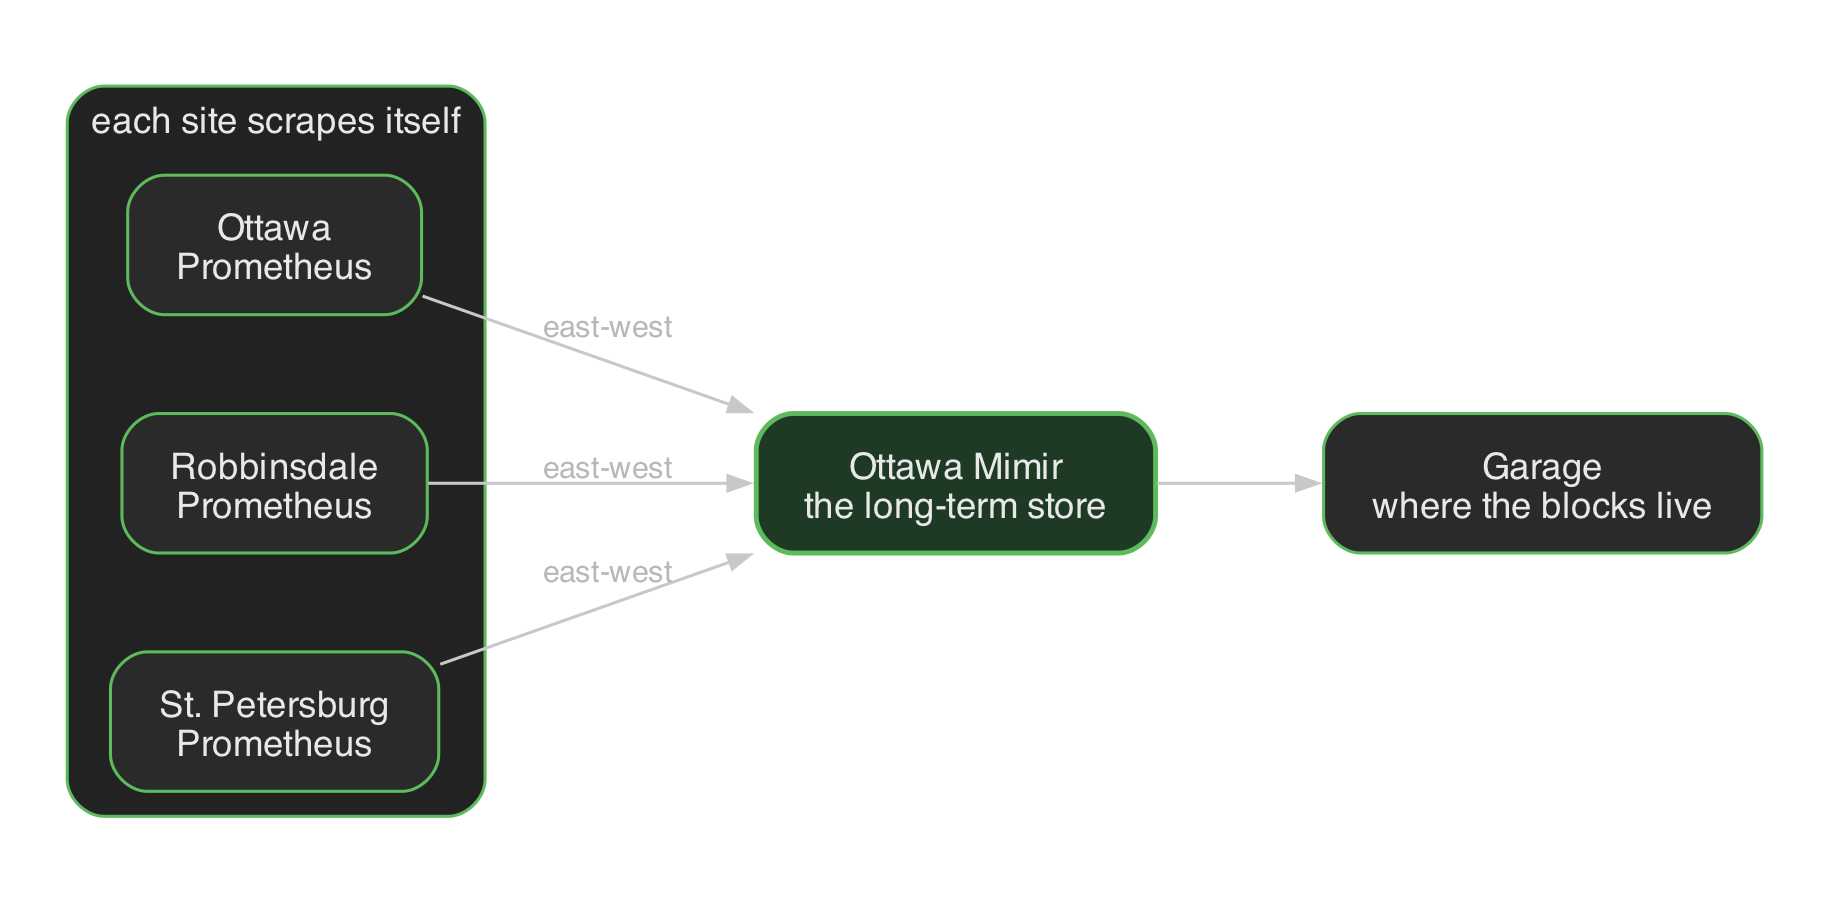
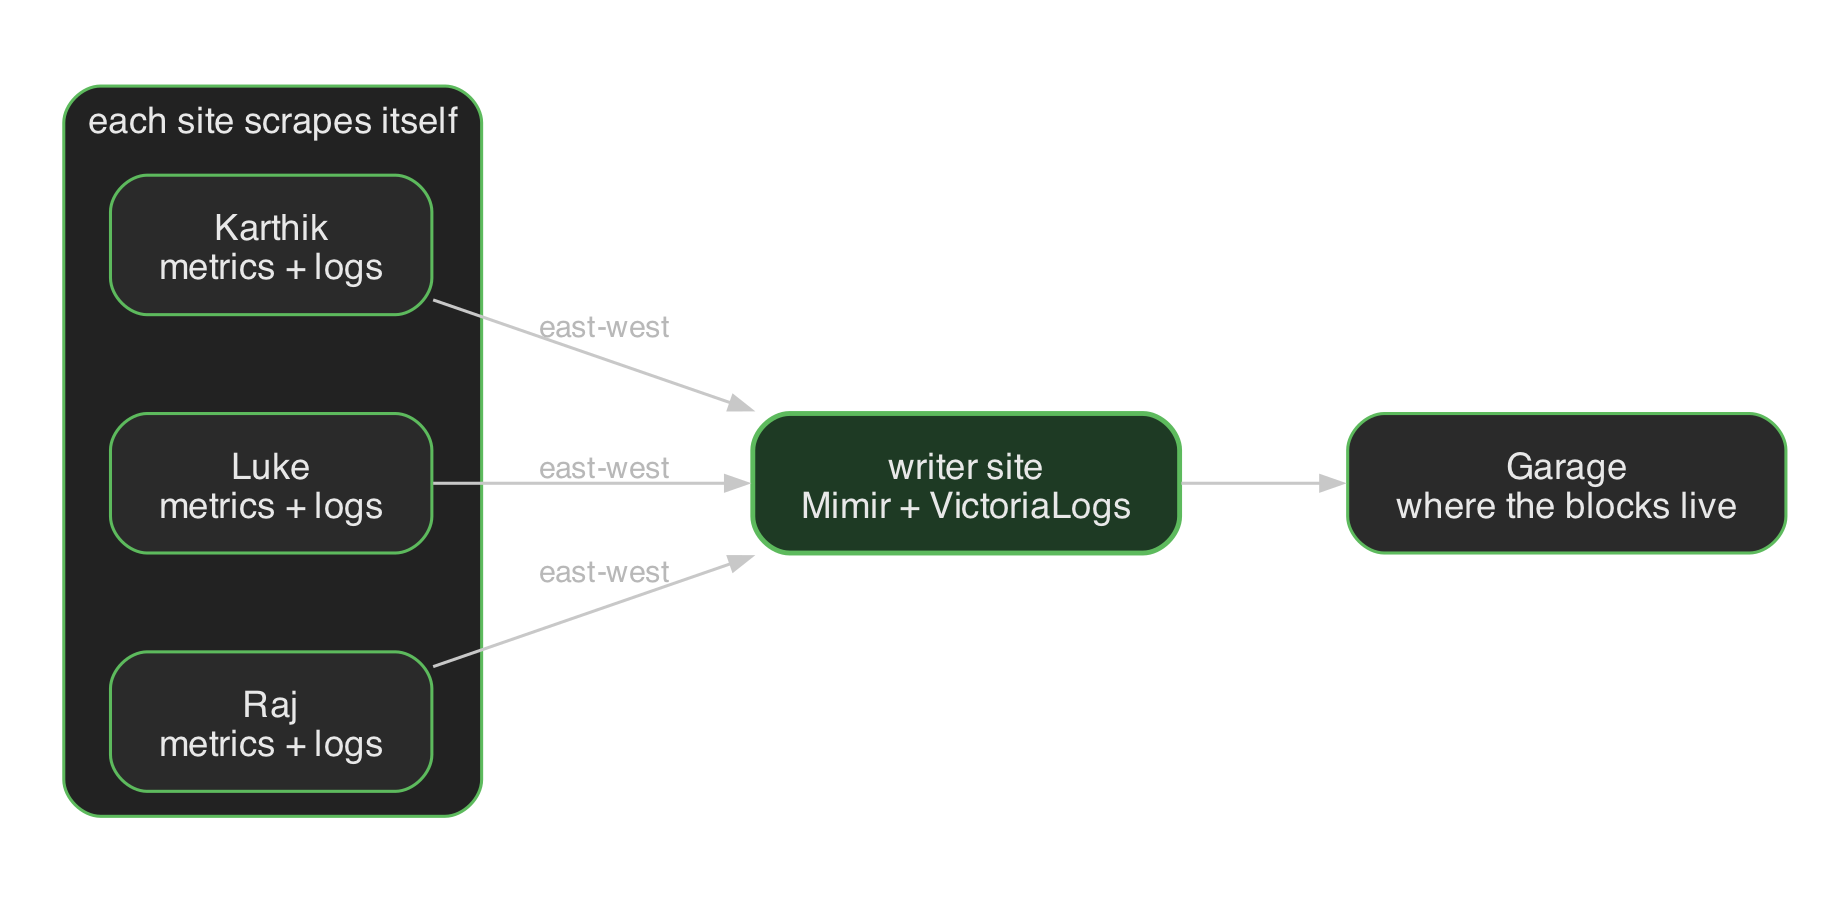
Ship logs east-west with the metrics, same hallway

diff --git a/content/post/self-hosting-a-keiretsu/index.md b/content/post/self-hosting-a-keiretsu/index.md
@@ -36,7 +36,7 @@ The wiring lives in [the manifests](https://github.com/keiretsu-labs/kubernetes-
 
 A site is a failure domain you chose. A footprint is what is actually in the room: CPU, disk, GPU, or “please do not wake the house.” Placement is a file in git that says this workload runs on that site. No file, it does not run there. I have not built a runtime that picks a site for an agent. “Scheduling control plane” here means the placement rule plus the network that makes the placement reachable.
 
-The cool part is the inverse. Because the app is defined once and the site is just a pointer, **most of the infrastructure can walk**. Move the pointer from Karthik’s tree to Luke’s, merge, and Flux stands it up on the other side of the hallway. Same warehouse, same network, same doors. You are not rebuilding a snowflake. Work that *is* the footprint stays put — GPUs stay on GPU machines, cameras stay in the house — but everything else is portable across the keiretsu on purpose. That is the point of treating sites as a domain instead of three pets.
+The cool part is the inverse. Because the app is defined once and the site is just a pointer, **most of the infrastructure can walk**. Move the pointer from Karthik’s tree to Luke’s, merge, and Flux stands it up on the other side of the hallway. Same warehouse, same network, same doors. You are not rebuilding a snowflake. Work that *is* the footprint stays put — GPUs stay on GPU machines, cameras stay in the house — but everything else is portable across the keiretsu on purpose: apps, dashboards, even the collectors that ship metrics and logs. That is the point of treating sites as a domain instead of three pets.
 
 **Writer site.** Git, login, dashboards, agent workspaces. The place you change the system. Needs ordinary compute and to stay reachable. If it is down, the other sites keep their pods; you just cannot ship. Ours is Karthik’s house in Ottawa.
 
@@ -54,7 +54,7 @@ Start with the houses. Each site has a [UniFi](https://www.ui.com/) gateway — 
 
 On top of that, each house runs Kubernetes. [Cilium](https://cilium.io/) is the [CNI](https://kubernetes.io/docs/concepts/extend-kubernetes/compute-storage-net/network-plugins/): the thing that gives every pod an IP and decides how those IPs route. Cilium speaks [BGP](https://www.cloudflare.com/learning/security/glossary/what-is-bgp/) to the *local* UniFi gateway — I wrote the [one-cluster version of that](/p/cilium-unifi/) when this was still a homelab. In practice: the router learns "these pod and service addresses live behind me." Do that at all three houses, and the mesh already knows how to forward.
 
-[ClusterMesh](https://docs.cilium.io/en/stable/network/clustermesh/intro/) is the last hop of that idea. It is how a Service at the writer site can have backends at the GPU site. No extra proxy. A pod calls a DNS name, and the packet goes to the other house the same way it would go to another pod in the same cluster. That is the hallway. Garage replication uses it. CI borrowing a machine at Luke’s uses it. Prometheus remote-write uses it. The mixed hardware only works if the hallway does not care what the box is.
+[ClusterMesh](https://docs.cilium.io/en/stable/network/clustermesh/intro/) is the last hop of that idea. It is how a Service at the writer site can have backends at the GPU site. No extra proxy. A pod calls a DNS name, and the packet goes to the other house the same way it would go to another pod in the same cluster. That is the hallway. Garage replication uses it. CI borrowing a machine at Luke’s uses it. Metrics and logs use it. The mixed hardware only works if the hallway does not care what the box is.
 
 [Tailscale](https://tailscale.com/) is not that hallway. Tailscale is how *I* get in: laptop, phone, [`kubectl`](https://kubernetes.io/docs/reference/kubectl/). I used to send cluster-to-cluster traffic over Tailscale too. [I wrote that up](/p/tailscale-operator/). Once the UniFi mesh was solid, it was the slower path for the work, so I stopped using it as the backbone. People still join that way. Workloads do not.
 
@@ -62,13 +62,15 @@ The language-model path is the one that confuses people, so here it is without t
 
 One more thing LinkedIn-Kubernetes will get wrong. A [ClusterIP](https://kubernetes.io/docs/concepts/services-networking/service/#publishing-services-service-types) is not private just because the docs say internal. BGP puts that address on the LAN. A Tailscale [subnet router](https://tailscale.com/kb/1019/subnets) can put the same ranges on the tailnet. If I need a lock, I put it on a [Gateway](https://gateway-api.sigs.k8s.io/) or in policy, not in the Service type.
 
-## Watching the other two cities
+## Watching the other sites
 
-Split the work and you immediately have a second problem: you cannot SSH around hoping to notice. Each site runs [Prometheus](https://prometheus.io/) as a forwarder. It scrapes what is local, stamps a `cluster` label so the three sites do not smear into one timeseries, and remote-writes east-west into [Mimir](https://grafana.com/oss/mimir/) in Ottawa. Mimir is the long-term store. The blocks land in Garage. [Grafana](https://grafana.com/oss/grafana/) in Ottawa is where I actually look; the other two sites do not get their own dashboard island.
+Split the work and you immediately have a second problem: you cannot SSH around hoping to notice. Each site runs [Prometheus](https://prometheus.io/) as a forwarder. It scrapes what is local, stamps a `cluster` label so the three sites do not smear into one timeseries, and remote-writes east-west into [Mimir](https://grafana.com/oss/mimir/) at the writer site. Mimir is the long-term store. The blocks land in Garage.
 
-That path is the same hallway as the model. Robbinsdale does not Tailscale its metrics to me. St. Petersburg does not dump GPU stats onto the public internet. If Ottawa is down I lose the long view. Local Prometheus still has a short window, which is enough to see that the house is on fire and not enough to ask what last Tuesday looked like. I picked that. Putting a Mimir in every city would mean three warehouses for numbers I already replicate as objects.
+Logs are the same hallway, not a side channel. Each site ships them east-west into [VictoriaLogs](https://docs.victoriametrics.com/victorialogs/) at the writer site. Same `cluster` label, same rule: scrape where it happened, keep the long copy where you look. [Grafana](https://grafana.com/oss/grafana/) is only at the writer site. The other two do not get their own dashboard island.
 
-Logs follow the same gravity. They are collected everywhere and stored in Ottawa. Metrics, logs, WAL, snapshots: if it has to survive a site, it goes through the warehouse. If it is only useful where it happened, it stays there.
+Robbinsdale does not Tailscale its metrics or logs to me. St. Petersburg does not dump GPU stats onto the public internet. If the writer site is down I lose the long view. Local Prometheus still has a short window, which is enough to see that the house is on fire and not enough to ask what last Tuesday looked like. I picked that. Putting a Mimir and a log store in every site would mean three warehouses for numbers I already replicate as objects.
+
+Metrics, logs, WAL, snapshots: if it has to survive a site, it goes through the warehouse. If it is only useful where it happened, it stays there.
 
 ![Telemetry east-west](telemetry.svg)
 
